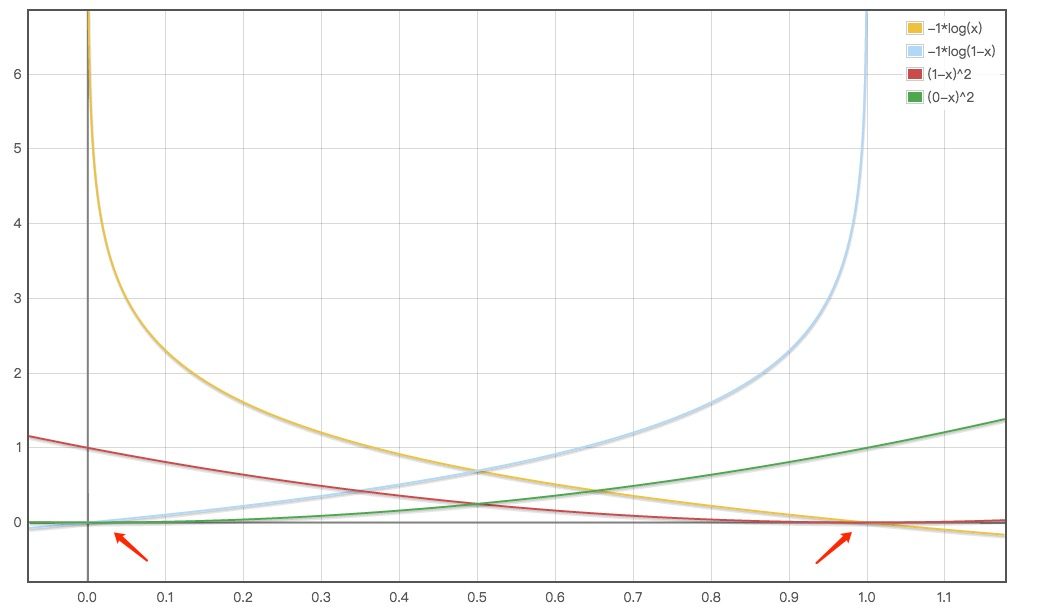
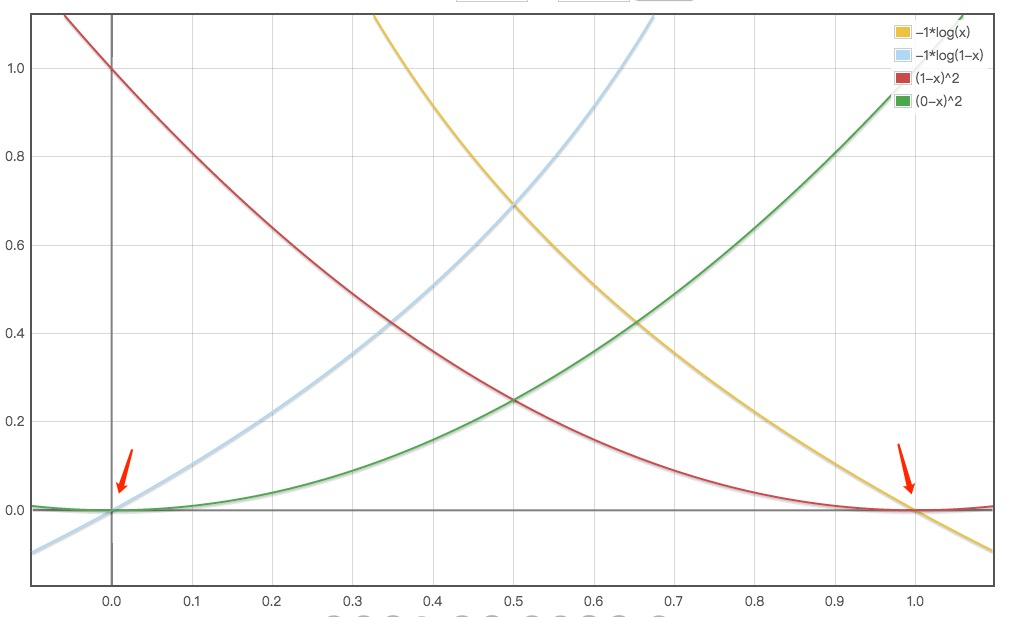
.

diff --git a/book/deeplearning/03-概率和信息论.md b/book/deeplearning/03-概率和信息论.md
@@ -404,13 +404,7 @@
 
             ![image](./image/03-2.png)
 
-            如图，当目标概率为1时，预测概率为0~1时的关系图，当预测概率为0时，均方误差为最大值1，当预测概率接近于1时，均方误差达到最小值0。
-
-            逻辑回归中用交叉熵时，相比均方误差，后期的收敛效果要好，所以优先考虑交叉熵。
-
-            ![image](./image/03-3.png)
-
-            如图，当目标的概率为1时，当预测的概率趋近为0时，交叉熵趋近为0；当预测的概率也趋近于1时，交叉熵趋近于负无穷大。所以可以通过最小化交叉熵来使得预测的概率也逼近于1。
+            如图，目标的概率为1时，当预测的概率也趋近为1时，交叉熵仍具有梯度，而均方误差的梯度则趋近为0。所以可以通过最小化交叉熵来使得预测的概率也逼近于1。
 
             单分类问题：
 

diff --git a/book/deeplearning/05-机器学习基础.md b/book/deeplearning/05-机器学习基础.md
@@ -870,7 +870,7 @@
 
         ![image](./image/05-1.png)
 
-        如图，当y为1，x接近于1和当y为0，x接近于0的情况，就可以发现均方误差会出现饱和，而交叉熵会好很多，所以推荐采用交叉熵作为误差函数。
+        如图，当y为1，x接近于1和当y为0，x接近于0的情况，就可以发现均方误差的梯度会趋近于0，而交叉熵仍具有梯度，所以推荐采用交叉熵作为误差函数。
 
 1. 监督学习算法
 
